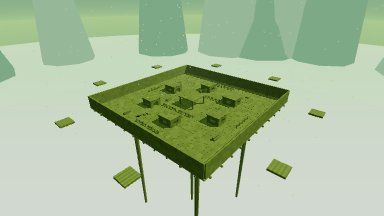
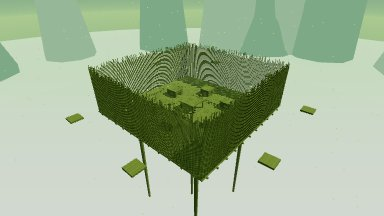
Bamboo Fort: 20 m wall of thin see-through bamboo poles (each cut drops the pole above), spawn pads 8 m up

diff --git a/src/bamboo.js b/src/bamboo.js
@@ -5,7 +5,7 @@
 // them (and come back a few seconds later for the next fighter).
 import * as THREE from 'three';
 import { deck, prop, stalk, drift, farRing } from './maps2.js';
-import { kindMats, chunk, join, group, wall, stack, finishBrk, kill } from './dojo.js?v=20261114153151';
+import { kindMats, chunk, join, group, wall, stack, finishBrk, kill } from './dojo.js?v=20261114153658';
 
 const TAU = Math.PI * 2, HALF = 30, TILE = 1.5;
 
@@ -41,10 +41,15 @@ export function buildBamboo(A, T) {
     for (const [x, z] of [[-18, -18], [18, -18], [-18, 18], [18, 18], [0, 0]]) { const m = new THREE.Mesh(new THREE.CylinderGeometry(1.1, 0.6, 60, 10), poleMat); prop(A, main, m, x, -31, z); }
   }
 
-  // ---- the dense wall round the edge: swing through it and you leave a window in it
-  const H = 5, WI = HALF - 0.3;
-  const edge = (ax, az, bx, bz) => wall(A, ax, az, bx, bz, 0, H, { kind: 'bamboo', posts: false, t: 0.5 });
-  edge(-WI, -WI, WI, -WI); edge(-WI, WI, WI, WI); edge(-WI, -WI + 0.25, -WI, WI - 0.25); edge(WI, -WI + 0.25, WI, WI - 0.25);
+  // ---- the wall round the edge: a close-set row of thin bamboo poles, 20 m tall. You can see through the gaps,
+  // but they're too narrow to slip through: anyone swinging or dashing in cuts through the poles in the way, and
+  // whatever is above each cut drops. Every pole is a stack of segments (each rests on the one below).
+  const WH = 20, SEG = 4, SP = 0.36, PW = 0.14, WI = HALF - 0.3;
+  const pole = (x, z) => {
+    const g = group(), h = WH - 1.5 + r() * 3, nseg = Math.round(h / SEG); let below = null;
+    for (let j = 0; j < nseg; j++) { const b = chunk(A, g, 'bamboo', x - PW / 2, x + PW / 2, j * h / nseg, (j + 1) * h / nseg, z - PW / 2, z + PW / 2, j === 0); join(b, below); below = b; }
+  };
+  for (let u = -WI; u <= WI + 1e-6; u += SP) { pole(u, -WI); pole(u, WI); if (u > -WI + 1e-6 && u < WI - 1e-6) { pole(-WI, u); pole(WI, u); } }
 
   // ---- small bamboo huts with flat bamboo roofs, a gazebo in the middle, fences and log piles
   const hut = (cx, cz, w, d, doorSide) => {
@@ -95,7 +100,7 @@ export function buildBamboo(A, T) {
   const pads = [];
   for (let k = 0; k < 8; k++) {
     const a = k / 8 * TAU + TAU / 16, x = Math.cos(a) * 47, z = Math.sin(a) * 47;
-    const p = deck(A, { x, z, y: 4, w: 4.5, d: 4.5, mat: poleMat, kind: 'pad', thick: 0.6 });
+    const p = deck(A, { x, z, y: 8, w: 4.5, d: 4.5, mat: poleMat, kind: 'pad', thick: 0.6 });
     p.base = p.meshes.map((m) => m.position.y); pads.push(p);
   }
   A.curPlat = undefined;

diff --git a/src/main.js b/src/main.js
@@ -1,16 +1,16 @@
 import * as THREE from 'three';
-import { Arena, MAPS } from './arena.js?v=20261114153151';
-import { Fighter, PALETTE, GUARD, setMetalEnv, metalEnvFor } from './fighter.js?v=20261114153151';
-import { bakeMeshes, Pieces, Particles, splitSoup } from './slice.js?v=20261114153151';
-import { sfx, ensureAudio, setListener, setVolume, setMuted } from './audio.js?v=20261114153151';
-import * as net from './net.js?v=20261114153151';
-import { MODES, POINT_MODES, MODE_GOAL, ModeFx, makeCrown } from './modes.js?v=20261114153151';
-import { profile, addCoins, randomLook, cleanLook, item, cleanUp, upMul } from './cosmetics.js?v=20261114153151';
-import { makeKillFx } from './killfx.js?v=20261114153151';
-import { makeGrapple } from './grapple.js?v=20261114153151';
-import { initShop } from './shop.js?v=20261114153151';
-import { breakChunk, chunkSoup } from './dojo.js?v=20261114153151';
-import { portal } from './portal.js?v=20261114153151';
+import { Arena, MAPS } from './arena.js?v=20261114153658';
+import { Fighter, PALETTE, GUARD, setMetalEnv, metalEnvFor } from './fighter.js?v=20261114153658';
+import { bakeMeshes, Pieces, Particles, splitSoup } from './slice.js?v=20261114153658';
+import { sfx, ensureAudio, setListener, setVolume, setMuted } from './audio.js?v=20261114153658';
+import * as net from './net.js?v=20261114153658';
+import { MODES, POINT_MODES, MODE_GOAL, ModeFx, makeCrown } from './modes.js?v=20261114153658';
+import { profile, addCoins, randomLook, cleanLook, item, cleanUp, upMul } from './cosmetics.js?v=20261114153658';
+import { makeKillFx } from './killfx.js?v=20261114153658';
+import { makeGrapple } from './grapple.js?v=20261114153658';
+import { initShop } from './shop.js?v=20261114153658';
+import { breakChunk, chunkSoup } from './dojo.js?v=20261114153658';
+import { portal } from './portal.js?v=20261114153658';
 
 // ---------- settings ----------
 const store = {

diff --git a/index.html b/index.html
@@ -4,7 +4,7 @@
 <meta charset="utf-8">
 <meta name="viewport" content="width=device-width,initial-scale=1">
 <title>Sever</title>
-<meta name="build" content="20261114153151">
+<meta name="build" content="20261114153658">
 <link rel="icon" href="data:,">
 <script>
 // Stale-page guard (as in Splatline): if version.json names a newer build than this page, reload once.
@@ -129,12 +129,12 @@ window.severVersion.check();
 <script type="importmap">
 { "imports": {
   "three": "./vendor/three.module.min.js",
-  "./src/main.js": "./src/main.js?v=20261114153151",
-  "./src/arena.js": "./src/arena.js?v=20261114153151",
-  "./src/fighter.js": "./src/fighter.js?v=20261114153151",
-  "./src/slice.js": "./src/slice.js?v=20261114153151",
-  "./src/audio.js": "./src/audio.js?v=20261114153151",
-  "./src/net.js": "./src/net.js?v=20261114153151"
+  "./src/main.js": "./src/main.js?v=20261114153658",
+  "./src/arena.js": "./src/arena.js?v=20261114153658",
+  "./src/fighter.js": "./src/fighter.js?v=20261114153658",
+  "./src/slice.js": "./src/slice.js?v=20261114153658",
+  "./src/audio.js": "./src/audio.js?v=20261114153658",
+  "./src/net.js": "./src/net.js?v=20261114153658"
 } }
 </script>
 </head>
@@ -277,6 +277,6 @@ window.severVersion.check();
 <div id="toast" style="opacity:0"></div>
 <div id="loading">Loading…</div>
 <noscript><p style="position:fixed;inset:0;display:flex;align-items:center;justify-content:center">Sever needs JavaScript and WebGL.</p></noscript>
-<script type="module" src="src/main.js?v=20261114153151"></script>
+<script type="module" src="src/main.js?v=20261114153658"></script>
 </body>
 </html>

diff --git a/src/shop.js b/src/shop.js
@@ -1,10 +1,10 @@
 // The shop screen: browse by category, try things on a turning, swinging preview fighter, buy and equip.
 import * as THREE from 'three';
-import { Fighter, PALETTE, setMetalEnv, metalEnvFor } from './fighter.js?v=20261114153151';
-import { Particles, Pieces, bakeMeshes } from './slice.js?v=20261114153151';
-import { makeKillFx } from './killfx.js?v=20261114153151';
-import { makeGrapple } from './grapple.js?v=20261114153151';
-import { CATEGORIES, CATALOG, item, profile, owns, buy, equip, UPGRADES, UP_MAX, UP_PRICES, buyUpgrade, upText } from './cosmetics.js?v=20261114153151';
+import { Fighter, PALETTE, setMetalEnv, metalEnvFor } from './fighter.js?v=20261114153658';
+import { Particles, Pieces, bakeMeshes } from './slice.js?v=20261114153658';
+import { makeKillFx } from './killfx.js?v=20261114153658';
+import { makeGrapple } from './grapple.js?v=20261114153658';
+import { CATEGORIES, CATALOG, item, profile, owns, buy, equip, UPGRADES, UP_MAX, UP_PRICES, buyUpgrade, upText } from './cosmetics.js?v=20261114153658';
 
 const $ = (id) => document.getElementById(id);
 const hex = (c) => '#' + c.toString(16).padStart(6, '0');

diff --git a/src/arena.js b/src/arena.js
@@ -3,9 +3,9 @@
 // so collision and "what am I standing on" stay simple and identical in every browser.
 import * as THREE from 'three';
 import { buildPagoda, buildIsles, buildBowl } from './maps2.js';
-import { buildBamboo } from './bamboo.js?v=20261114153151';
-import { buildCity } from './city.js?v=20261114153151';
-import { buildDojo } from './dojo.js?v=20261114153151';
+import { buildBamboo } from './bamboo.js?v=20261114153658';
+import { buildCity } from './city.js?v=20261114153658';
+import { buildDojo } from './dojo.js?v=20261114153658';
 const NONE = [];
 const _bm = new THREE.Matrix4(), _bp = new THREE.Vector3(), _bq = new THREE.Quaternion(), _bs = new THREE.Vector3(); // bamboo instance updates
 

diff --git a/src/killfx.js b/src/killfx.js
@@ -1,8 +1,8 @@
 // Kill effects from the shop: what happens to someone you cut down. The body still splits along your
 // cut; the effect changes what sprays out, what the pieces leak, and what becomes of them.
 import * as THREE from 'three';
-import { Particles } from './slice.js?v=20261114153151';
-import { sfx } from './audio.js?v=20261114153151';
+import { Particles } from './slice.js?v=20261114153658';
+import { sfx } from './audio.js?v=20261114153658';
 
 const R = () => Math.random() - 0.5;
 

diff --git a/src/fighter.js b/src/fighter.js
@@ -2,7 +2,7 @@
 // cleanly), posed each frame with a long-striding run cycle, two-bone IK for arms and legs, and a sword
 // driven by the swing input (s.x, s.y).
 import * as THREE from 'three';
-import { item, cleanLook } from './cosmetics.js?v=20261114153151';
+import { item, cleanLook } from './cosmetics.js?v=20261114153658';
 
 // Every material that can end up on a sliced piece is registered here, so a piece's single mesh can use
 // one shared material array and keep each triangle's look.

diff --git a/src/city.js b/src/city.js
@@ -4,7 +4,7 @@
 // steel frames (unbreakable) are there to swing from, run along and stand on.
 import * as THREE from 'three';
 import { deck, prop } from './maps2.js';
-import { kindMats, chunk, group, wall, stack, finishBrk, kill } from './dojo.js?v=20261114153151';
+import { kindMats, chunk, group, wall, stack, finishBrk, kill } from './dojo.js?v=20261114153658';
 
 const TAU = Math.PI * 2;
 const std = (color, o = {}) => new THREE.MeshStandardMaterial({ color, roughness: 0.8, ...o });

diff --git a/src/slice.js b/src/slice.js
@@ -2,7 +2,7 @@
 // and turn each side into a tumbling rigid piece. Every original part is convex, so the cut face of a part
 // is the convex hull of the points where the plane crossed it.
 import * as THREE from 'three';
-import { MATS } from './fighter.js?v=20261114153151';
+import { MATS } from './fighter.js?v=20261114153658';
 
 let partSeq = 1;
 const _v = new THREE.Vector3(), _n = new THREE.Vector3(), _nm = new THREE.Matrix3();

diff --git a/src/dojo.js b/src/dojo.js
@@ -6,7 +6,7 @@
 // Vertical: a four-tier dojo tower with stairs spiralling up it, two-storey houses, rooftop bridges, watchtowers
 // and floating shrine islands around the town.
 import * as THREE from 'three';
-import { regMat } from './fighter.js?v=20261114153151';
+import { regMat } from './fighter.js?v=20261114153658';
 import { deck, prop, bridge, stalk, drift, farRing } from './maps2.js';
 
 const TAU = Math.PI * 2, CELL = 6;

diff --git a/README.md b/README.md
@@ -103,7 +103,7 @@ A 60 x 60 m platform built entirely of bamboo, floating in jade mist:
 
 - **Even the floor is bamboo.** It's made of tiles your sword slices straight through. Cut one out and there's a hole to fall through.
 - Small bamboo **huts** with flat bamboo roofs, an open **gazebo** in the middle (cut its poles and the roof comes down), bamboo **fences** and piles of cut poles.
-- A **dense bamboo wall** rings the edge. Anyone who swings or dashes into it smashes a window through it, so everyone can see where they came in.
+- A **wall of thin bamboo poles**, 20 m tall, rings the edge. You can see through the gaps, but they are too narrow to slip through: anyone who swings or dashes in cuts through the poles in the way (the tops drop), leaving a window that shows where they came in.
 - Outside there's nothing but tall **bamboo pillars** to swing from (and cut).
 - **Spawn pads**: everyone starts on a small pad floating outside the fort and rushes the middle. Once you leave a pad it falls away into the mist, and it comes back 6 s later for the next fighter.
 
